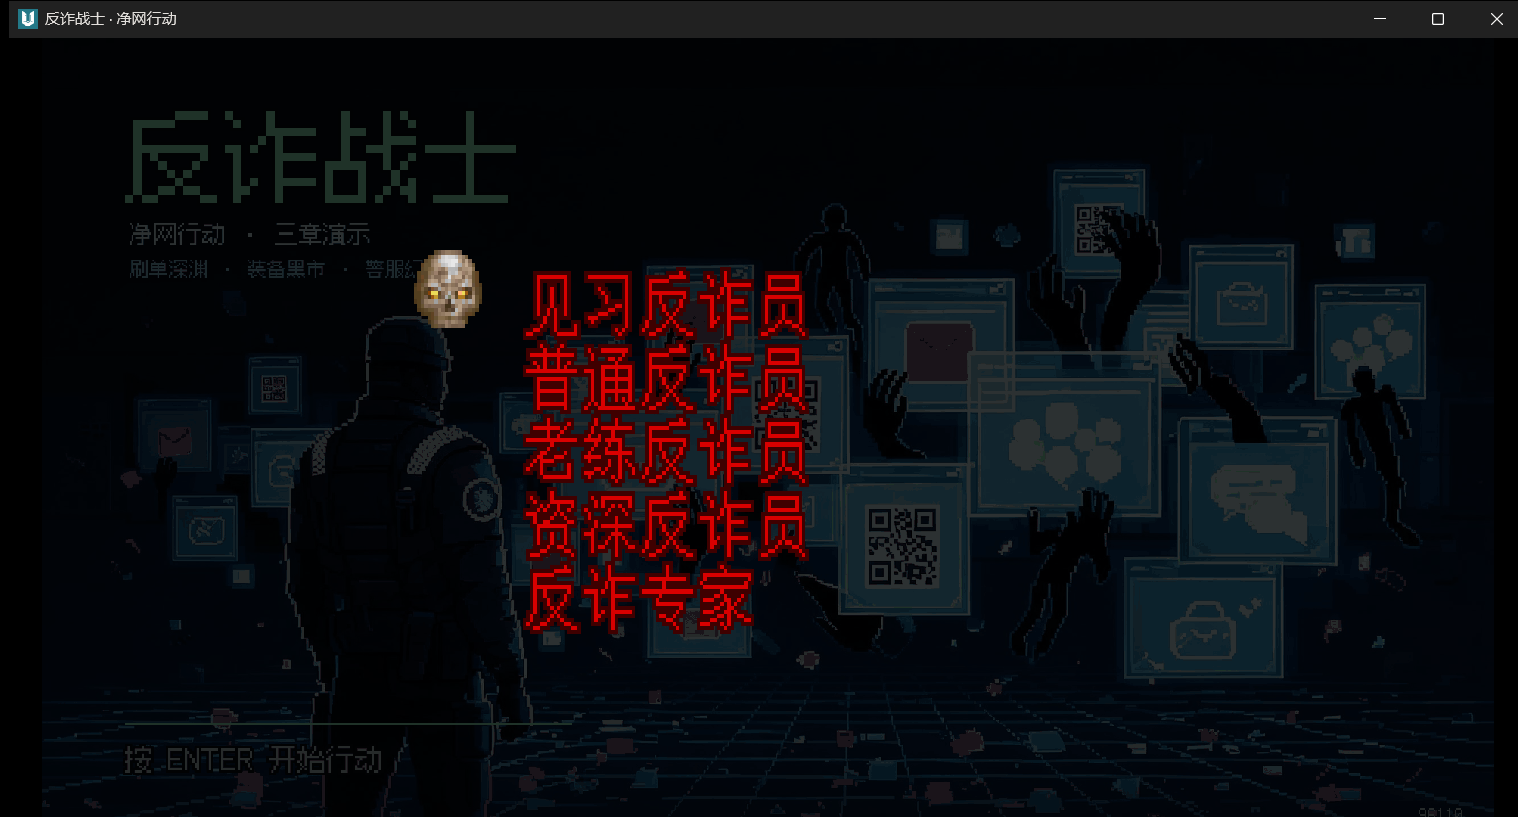
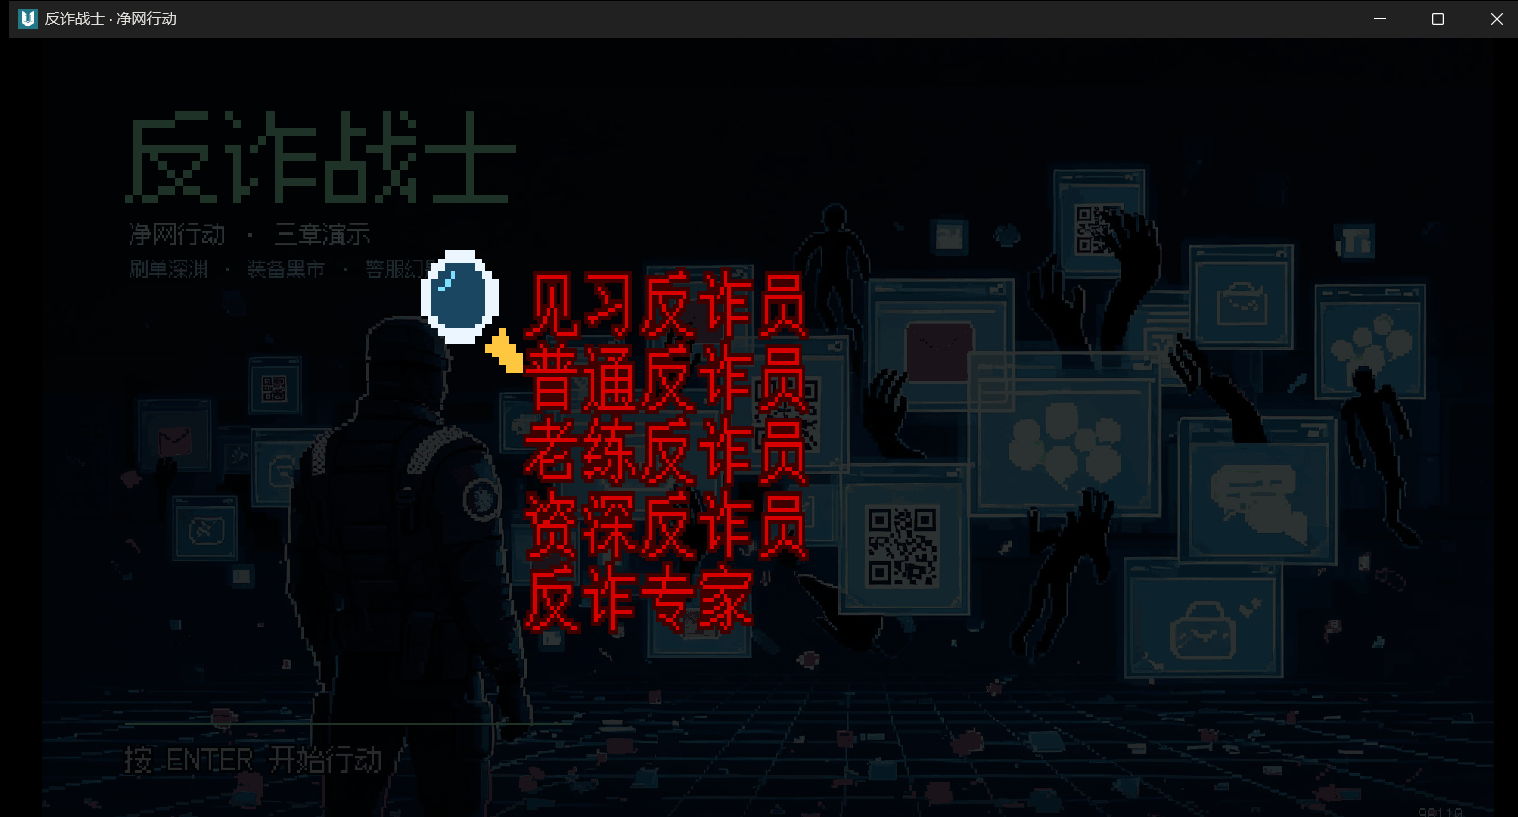
fix: 第 4/5 难度空图；难度菜单换自制光标
- gen_maps.py 之前只给 UDMF 物件写了 skill1/2/3，skill4/5 缺省 false，
  选“资深/反诈专家”进图后道具和怪物全被过滤。按 Doom 语义补齐五个
  标志（easy→1/2，medium→3，hard→4/5），重生成三张地图。
- FZNewGameMenu 的 Selector 换成自制放大镜 FZSELECT（tools/gen_menu_cursor.py），
  不再用引擎默认的骷髅 M_CURS1。
- 文档/CREDITS 同步；static 192/192、chapter FZ01/FZ03 各 13/13。

Changed region(s): [[0.2477, 0.306, 0.3715, 0.459]]

diff --git a/tools/gen_maps.py b/tools/gen_maps.py
@@ -566,14 +566,18 @@ class MapBuilder:
             emit("sector", i, props)
 
         for i, (x, y, ang, typ, fl) in enumerate(self.things):
-            # Doom option bits: 1/2/4 = skill 1/2/3, 8 = ambush,
-            # 16 = multiplayer only. Without bit 16 a thing is present in
-            # every game mode, which is what 7 has always meant here.
+            # Doom option bits: 1/2/4 = easy/medium/hard, 8 = ambush,
+            # 16 = multiplayer only. UDMF has FIVE skill flags: skill1/2 are
+            # easy, skill3 medium, skill4/5 hard. Writing only three of them
+            # left skill4/skill5 at their default (false), so the 4th and
+            # 5th difficulty loaded an empty map.
             props = [("x", num(x)), ("y", num(y)), ("angle", str(ang)),
                      ("type", str(typ)),
                      ("skill1", "true" if fl & 1 else "false"),
-                     ("skill2", "true" if fl & 2 else "false"),
-                     ("skill3", "true" if fl & 4 else "false"),
+                     ("skill2", "true" if fl & 1 else "false"),
+                     ("skill3", "true" if fl & 2 else "false"),
+                     ("skill4", "true" if fl & 4 else "false"),
+                     ("skill5", "true" if fl & 4 else "false"),
                      ("single", "false" if fl & 16 else "true"),
                      ("coop", "true"), ("dm", "true")]
             if fl & 8:

diff --git a/tools/gen_menu_cursor.py b/tools/gen_menu_cursor.py
@@ -1,0 +1,42 @@
+"""Draw the menu cursor used by the custom difficulty menu (FZSELECT).
+
+The stock Doom cursor is the grinning skull (M_CURS1).  This one is a
+magnifying glass: it reads as "核查线索" and matches the HUD's cyan/white
+plate.  Drawn on a 16x16 grid and scaled 2x so the pixels stay square, which
+is the size the 320x200 menu canvas expects for a cursor patch.
+"""
+from pathlib import Path
+
+from PIL import Image, ImageDraw
+
+OUT = Path(__file__).resolve().parent.parent / "game" / "graphics" / "FZSELECT.png"
+
+RING = (232, 244, 255, 255)
+GLASS = (28, 74, 102, 255)
+HANDLE = (255, 196, 64, 255)
+SPARK = (120, 220, 255, 255)
+
+
+def draw() -> Image.Image:
+    img = Image.new("RGBA", (16, 16), (0, 0, 0, 0))
+    d = ImageDraw.Draw(img)
+
+    # lens: a filled disc with a lighter rim
+    d.ellipse((1, 1, 11, 11), fill=GLASS, outline=RING, width=1)
+    # highlight in the upper-left of the glass
+    d.point((4, 4), fill=SPARK)
+    d.point((5, 3), fill=SPARK)
+    d.point((3, 5), fill=SPARK)
+
+    # handle running to the lower-right corner
+    for i in range(4):
+        d.line((11 + i, 11 + i, 12 + i, 12 + i), fill=HANDLE)
+    d.point((14, 14), fill=RING)
+
+    return img.resize((32, 32), Image.NEAREST)
+
+
+if __name__ == "__main__":
+    OUT.parent.mkdir(parents=True, exist_ok=True)
+    draw().save(OUT)
+    print(OUT)

diff --git a/docs/开发日志-2026-11-23.md b/docs/开发日志-2026-11-23.md
@@ -267,6 +267,17 @@ TextItem "反诈专家",   "m", "Startgame", 4
 
 ![中文难度菜单](images/skill_menu.png)
 
+**光标**：默认用的是 Doom 的骷髅 `M_CURS1`，这轮换成自制的放大镜 `FZSELECT`
+（`tools/gen_menu_cursor.py` 画，16×16 放大 2 倍），菜单里写
+`Selector "FZSELECT", -32, -6`。只改这一张菜单，主菜单仍是原来的骷髅。
+
+**同日修掉的 bug**：选「资深反诈员 / 反诈专家」进图后**道具和怪物全没了**。
+根因在 `tools/gen_maps.py`：地图是 UDMF，物件只写了 `skill1/skill2/skill3`
+三个标志，`skill4/skill5` 没写，缺省为 false——第 4、5 档正好对应这两个，
+整张图的 thing 全被过滤掉。修法是按 Doom 的原始语义补齐五个标志
+（easy→skill1/2，medium→skill3，hard→skill4/5），重生成三张地图后恢复正常。
+
+
 顺带把结算页四行也换了：`TXT_IMKILLS/IMITEMS/IMSECRETS/IMTIME` → 净化/证据/隐藏点/用时。
 这四个键不经过 DEHACKED，`LANGUAGE` 能盖住。
 

diff --git a/assets_src/CREDITS.md b/assets_src/CREDITS.md
@@ -19,6 +19,7 @@
 | `art/title/cover.jpg`、`art/title/ending.jpg` | 插画源 | 自制（AI 生成） | Ark Seedream 5.0 `doubao-seedream-5-0-260128` / 2026-11-23 | CC BY-NC-SA 4.0* | 是 | 标题与终章插画底稿，提示词见下 |
 | `game/graphics/TITLEPIC.png`、`FZENDPIC.png` | 标题 / 终章图 | 上述插画 + 脚本叠字 | 同左 + `tools/gen_title.py` | CC BY-NC-SA 4.0* | 是 | 中文标题、压暗、降色数由脚本完成 |
 | `game/graphics/FZCRED1.png`、`FZCRED2.png`、`FZCASTBG.png` | 轮播页 / 巡礼底图 | 自制（纯脚本绘制） | 本项目 | CC BY-NC-SA 4.0* | 无 | `tools/gen_title.py` 生成，无 AI 插画 |
+| `game/graphics/FZSELECT.png` | 难度菜单光标 | 自制（纯脚本绘制） | 本项目 | CC BY-NC-SA 4.0* | 无 | `tools/gen_menu_cursor.py` 画放大镜，16×16 放大 2 倍 |
 | `docs/剧情.md` 等 | 文案 | 自制 | 本项目 | CC BY-NC-SA 4.0* | 无 | 发布前需宣传口径审校 |
 
 \* 内容授权待单位确认，确认后请更新此表与根目录 `LICENSE`。

diff --git a/game/menudef/README.md b/game/menudef/README.md
@@ -21,3 +21,4 @@
 - 别再回头去改 skill 的名字：`skill` 块在我们 MAPINFO 里解析得比引擎的
   `mapinfo/doomcommon.txt` 早，永远是"追加"而不是"替换"；Freedoom 的 DEHACKED
   又只认 IWAD 里的那一份。菜单这条路才是对的。
+- 光标用 `Selector "FZSELECT", -32, -6` 换成自制的放大镜（默认是骷髅 `M_CURS1`）。
